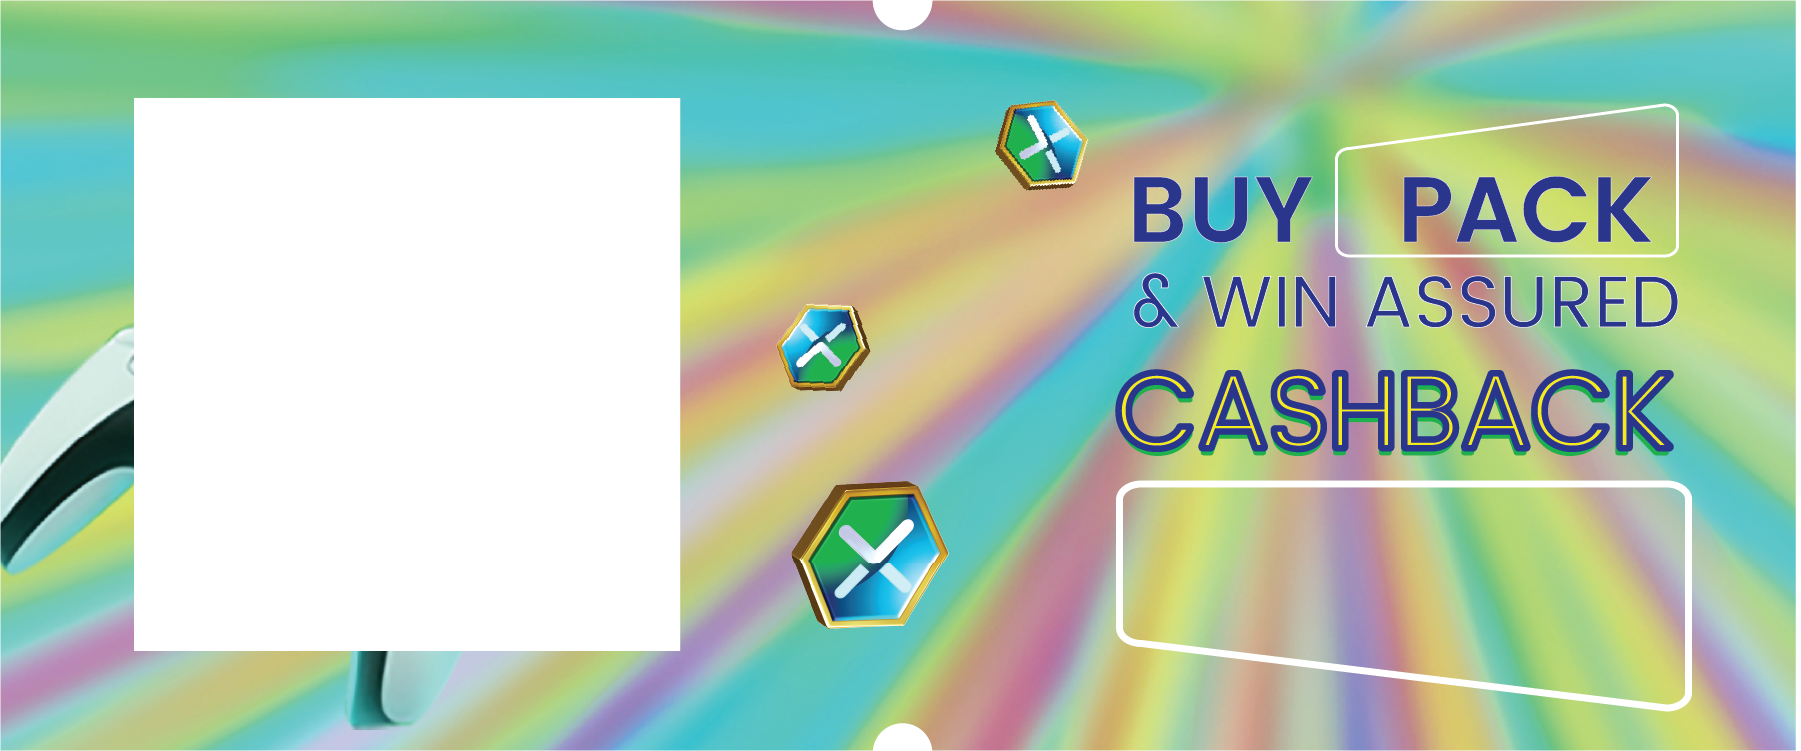
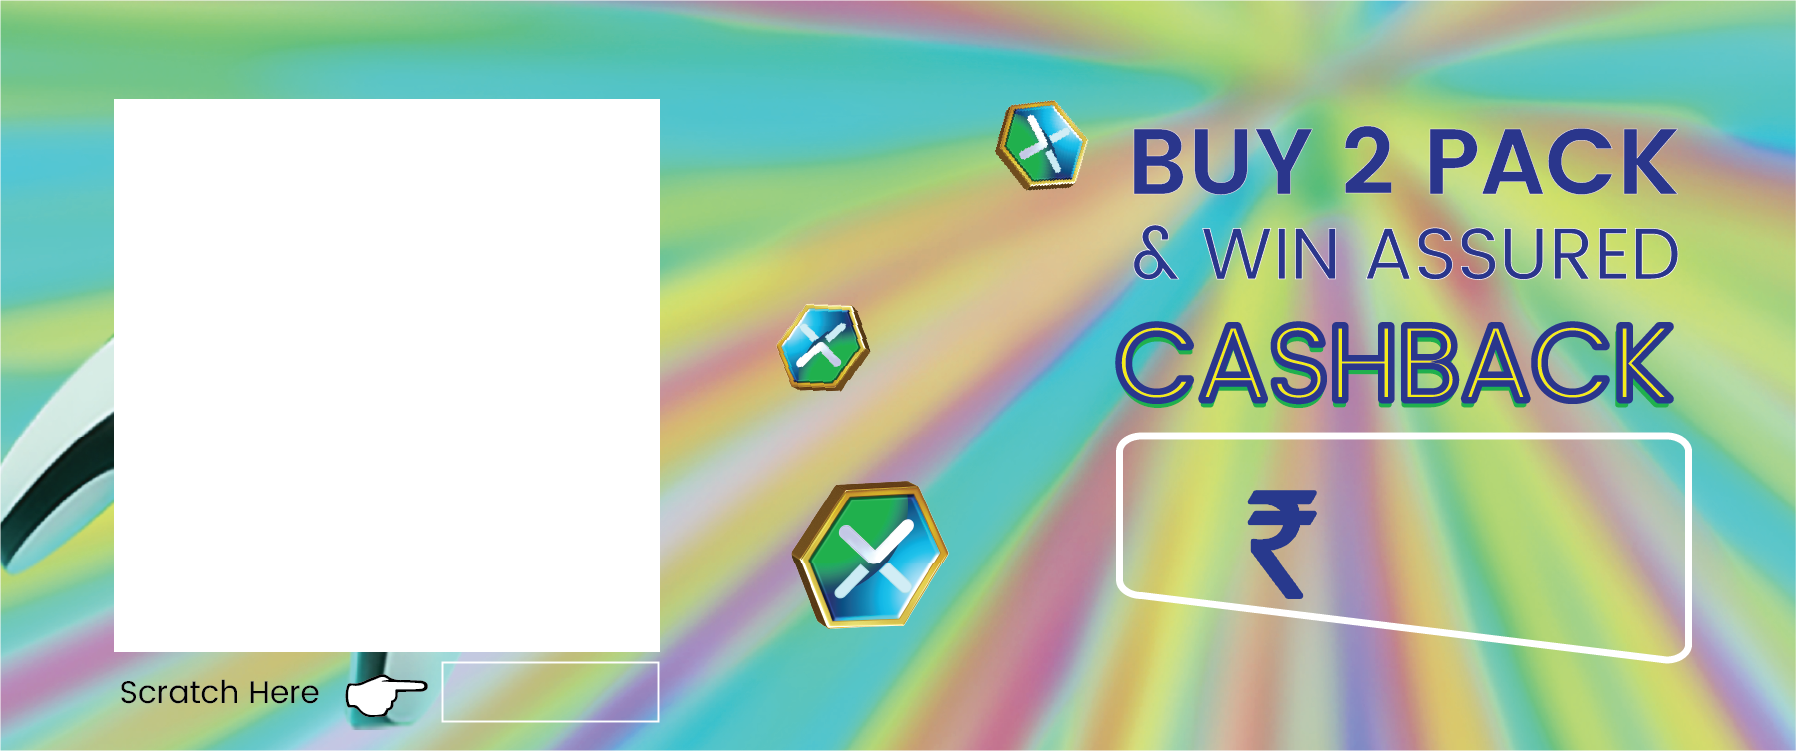
changes in QR code and Reward page

diff --git a/public/css/style.css b/public/css/style.css
@@ -17,7 +17,7 @@
 
 .head-title {
     font-family: myFirstFont;
-    color: #f2f2f2;
+    color: #ffff;
     margin-bottom: 0;
 }
 html{
@@ -69,7 +69,7 @@ p {
 }
 
 .cash-text {
-    color: #f2f2f2;
+    color: #2C3689;
 }
 
 .signup-btn {
@@ -192,7 +192,7 @@ p {
 }
 
 .rewardbg {
-    background-image: url("../images/confetti.gif");
+    background-image:  url("../images/confetti.gif"), url("../images/Banner_video.gif");
 }
 
 .error{

diff --git a/app/Imports/QRCodeImport.php b/app/Imports/QRCodeImport.php
@@ -57,20 +57,20 @@ class QRCodeImport implements ToCollection, WithValidation, WithStartRow, WithCh
                 $rewardValue = $row[1];
                 $rewardId = RewardItem::whereValue($row[1])->value('id');
 
-                $uniqueKey = Str::random(5);
+                // $uniqueKey = Str::random(5);
 
-                while (QRCodeItem::where('key', $uniqueKey)->exists()) {
-                    $uniqueKey = Str::random(5);
-                }
+                // while (QRCodeItem::where('key', $uniqueKey)->exists()) {
+                //     $uniqueKey = Str::random(5);
+                // }
 
                 $qrCodeItem = QRCodeItem::updateOrCreate([
                     'serial_number' => $row[0],
                 ],[
-                    'key' => $uniqueKey,
+                    // 'key' => $uniqueKey,
                     'reward_item_id' => $rewardId,
                 ]);
 
-                $noofPack = $this->noofPackByRewardValue($rewardValue);
+                // $noofPack = $this->noofPackByRewardValue($rewardValue);
 
                 // final coupon path
                 $qrCodeRewardAmt = "{$newQRFolder}/{$row[1]}";
@@ -80,7 +80,7 @@ class QRCodeImport implements ToCollection, WithValidation, WithStartRow, WithCh
                 $imagePath = "{$qrCodeRewardAmt}/{$row[0]}.png";
                 if(!Storage::disk('public')->exists($imagePath)){
                     $url = url('/')."/login/?uid={$qrCodeItem->id}";
-                    $couponUniqueURL = url('/')."?k={$qrCodeItem->key}";
+                    // $couponUniqueURL = url('/')."?k={$qrCodeItem->key}";
 
                     $qr_code_file = "qr-code/{$row[0]}.png";
                     $image = QrCode::format('png')
@@ -95,31 +95,31 @@ class QRCodeImport implements ToCollection, WithValidation, WithStartRow, WithCh
 
                     $back = Image::make(public_path('images/coupon_template/back.png'));
 
-                    $back->text($noofPack, 370, 170, function($font) {
-                        $font->file(public_path('fonts/Lato-Bold.ttf'));
-                        $font->size(100);
-                        $font->color('#000');
-                        $font->align('center');
-                        $font->valign('bottom');
-                    });
+                    // $back->text($noofPack, 370, 170, function($font) {
+                    //     $font->file(public_path('fonts/Poppins-Bold.ttf'));
+                    //     $font->size(100);
+                    //     $font->color('#2C3689');
+                    //     $font->align('center');
+                    //     $font->valign('bottom');
+                    // });
 
-                    $back->text($rewardValue, 1600, 640, function($font) {
-                        $font->file(public_path('fonts/Lato-Bold.ttf'));
+                    $back->text($rewardValue, 1610, 600, function($font) {
+                        $font->file(public_path('fonts/Poppins-Bold.ttf'));
                         $font->size(150);
-                        $font->color('#000');
+                        $font->color('#2C3689');
                         $font->align('right');
                         $font->valign('bottom');
                     });
 
-                    $back->text($row[0], 145, 713, function($font) {
-                        $font->file(public_path('fonts/Lato-Bold.ttf'));
+                    $back->text($row[0], 500, 700, function($font) {
+                        $font->file(public_path('fonts/Poppins-Bold.ttf'));
                         $font->size(26);
-                        $font->color('#000');
+                        $font->color('#2C3689');
                         $font->align('left');
                         $font->valign('bottom');
                     });
                     $qrCode = Image::make(storage_path("app/public/{$qr_code_file}"));
-                    $back->insert($qrCode, 'top-left', 128, 100);
+                    $back->insert($qrCode, 'top-left', 110, 100);
 
                     $finalQRCode = storage_path("app/public/{$imagePath}");
                     $imgSave = $back->save($finalQRCode);
@@ -199,20 +199,20 @@ class QRCodeImport implements ToCollection, WithValidation, WithStartRow, WithCh
         return 200;
     }
 
-    public function noofPackByRewardValue($rewardValue){
-        switch ($rewardValue) {
-            case '50':
-                return 1;
-                break;
-            case '100':
-                return 2;
-                break;
-            case '200':
-                return 5;
-                break;
-            default:
-                return 0;
-                break;
-        }
-    }
+    // public function noofPackByRewardValue($rewardValue){
+    //     switch ($rewardValue) {
+    //         case '50':
+    //             return 2;
+    //             break;
+    //         case '100':
+    //             return 2;
+    //             break;
+    //         case '200':
+    //             return 2;
+    //             break;
+    //         default:
+    //             return 0;
+    //             break;
+    //     }
+    // }
 }

diff --git a/app/Exports/PayoutExport.php b/app/Exports/PayoutExport.php
@@ -20,7 +20,6 @@ class PayoutExport implements FromCollection, WithMapping, WithHeadings, WithEve
             'Amount',
             'Username',
             'Mobile number',
-            'WD Code',
             'UPI ID',
             'Serial Number',
             'Notes',
@@ -34,10 +33,10 @@ class PayoutExport implements FromCollection, WithMapping, WithHeadings, WithEve
             $loginHistory->qRCodeItem->rewardItem->value,
             $loginHistory->retailer->name,
             $loginHistory->retailer->mobile_number,
-            $loginHistory->qRCodeItem->wd->code,
+            // $loginHistory->qRCodeItem->wd->code,
             $loginHistory->retailer->upi_id,
             $loginHistory->qRCodeItem->serial_number,
-            "{$loginHistory->qRCodeItem->wd->code}:{$loginHistory->retailer->upi_id}:{$loginHistory->retailer->mobile_number}:{$loginHistory->qRCodeItem->serial_number}:\"{$loginHistory->created_at}\"",
+            "{$loginHistory->retailer->upi_id}:{$loginHistory->retailer->mobile_number}:{$loginHistory->qRCodeItem->serial_number}:\"{$loginHistory->created_at}\"",
             $loginHistory->created_at
         ];
     }
@@ -52,7 +51,7 @@ class PayoutExport implements FromCollection, WithMapping, WithHeadings, WithEve
                 $event->sheet->getDelegate()->getColumnDimension('D')->setAutoSize(true);
                 $event->sheet->getDelegate()->getColumnDimension('E')->setAutoSize(true);
                 $event->sheet->getDelegate()->getColumnDimension('F')->setAutoSize(true);
-                $event->sheet->getDelegate()->getColumnDimension('G')->setAutoSize(true);
+                // $event->sheet->getDelegate()->getColumnDimension('G')->setAutoSize(true);
 
             },
         ];
@@ -60,7 +59,7 @@ class PayoutExport implements FromCollection, WithMapping, WithHeadings, WithEve
 
     public function styles(Worksheet $sheet)
     {
-        $sheet->getStyle('A1:G1')->getFont()->setBold(true);
+        $sheet->getStyle('A1:F1')->getFont()->setBold(true);
     }
 
     /**
@@ -68,7 +67,7 @@ class PayoutExport implements FromCollection, WithMapping, WithHeadings, WithEve
     */
     public function collection()
     {
-        return LoginHistory::with(['retailer:id,name,mobile_number,upi_id,whatsapp_number','qRCodeItem:id,serial_number,reward_item_id,wd_id','qRCodeItem.wd:id,code','qRCodeItem.rewardItem:id,value'])
+        return LoginHistory::with(['retailer:id,name,mobile_number,upi_id,whatsapp_number','qRCodeItem:id,serial_number,reward_item_id','qRCodeItem.rewardItem:id,value'])
                     ->whereBetween('created_at',[$this->startDate, $this->endDate])
                     ->select('id','retailer_id','q_r_code_item_id','created_at')
                     ->orderBy('created_at','ASC')

diff --git a/app/Exports/LoginHistoryExport.php b/app/Exports/LoginHistoryExport.php
@@ -21,7 +21,6 @@ class LoginHistoryExport implements FromCollection, WithMapping, WithHeadings, W
             'Mobile number',
             'Whatsapp number',
             'UPI ID',
-            'WD Code',
             'Serial Number',
             'Reward Value',
             'IP Address',
@@ -36,7 +35,7 @@ class LoginHistoryExport implements FromCollection, WithMapping, WithHeadings, W
             $loginHistory->retailer->mobile_number,
             $loginHistory->retailer->whatsapp_number,
             $loginHistory->retailer->upi_id,
-            $loginHistory->qRCodeItem->wd->code,
+            // $loginHistory->qRCodeItem->wd->code,
             $loginHistory->qRCodeItem->serial_number,
             $loginHistory->qRCodeItem->rewardItem->value,
             $loginHistory->ip_address,
@@ -56,7 +55,7 @@ class LoginHistoryExport implements FromCollection, WithMapping, WithHeadings, W
                 $event->sheet->getDelegate()->getColumnDimension('F')->setAutoSize(true);
                 $event->sheet->getDelegate()->getColumnDimension('G')->setAutoSize(true);
                 $event->sheet->getDelegate()->getColumnDimension('H')->setAutoSize(true);
-                $event->sheet->getDelegate()->getColumnDimension('I')->setAutoSize(true);
+                // $event->sheet->getDelegate()->getColumnDimension('I')->setAutoSize(true);
 
             },
         ];
@@ -64,7 +63,7 @@ class LoginHistoryExport implements FromCollection, WithMapping, WithHeadings, W
 
     public function styles(Worksheet $sheet)
     {
-        $sheet->getStyle('A1:I1')->getFont()->setBold(true);
+        $sheet->getStyle('A1:H1')->getFont()->setBold(true);
     }
 
     /**
@@ -75,9 +74,9 @@ class LoginHistoryExport implements FromCollection, WithMapping, WithHeadings, W
         return  LoginHistory::query()
                             ->with([
                                 'retailer:id,name,mobile_number,whatsapp_number,upi_id',
-                                'qRCodeItem:id,serial_number,reward_item_id,wd_id',
-                                'qRCodeItem.rewardItem:id,value',
-                                'qRCodeItem.wd:id,code'
+                                'qRCodeItem:id,serial_number,reward_item_id',
+                                'qRCodeItem.rewardItem:id,value'
+                                // 'qRCodeItem.wd:id,code'
                             ])
                             ->select('id','ip_address','retailer_id','q_r_code_item_id','created_at')
                             ->get();

diff --git a/app/Http/Controllers/Admin/QRCodeItemController.php b/app/Http/Controllers/Admin/QRCodeItemController.php
@@ -124,7 +124,7 @@ class QRCodeItemController extends Controller
         // dd($request->validated(), $id);
         $data = [
             "serial_number" => $request->validated('serial_number'),
-            "key" => $request->validated('key'),
+            // "key" => $request->validated('key'),
         ];
         $qrCodeUpdate = QRCodeItem::whereId($id)->first();
         $update = $qrCodeUpdate->update($data);
@@ -166,29 +166,30 @@ class QRCodeItemController extends Controller
     }
 
 
-    public function updateKey(Request $request)
-    {
-        $key = $request->key;
-        $serial_number = $request->serial_number;
-        $qrcodeData = QRCodeItem::whereSerialNumber($serial_number)->first();
-        if(!$qrcodeData){
-            return back()->with('failed','Invalid Serial Number.');
-        }
+    // public function updateKey(Request $request)
+    // {
+    //     $key = $request->key;
+    //     $serial_number = $request->serial_number;
+    //     $qrcodeData = QRCodeItem::whereSerialNumber($serial_number)->first();
+    //     if(!$qrcodeData){
+    //         return back()->with('failed','Invalid Serial Number.');
+    //     }
 
-        $qrcodeData->update([
-            'key' => $key,
-        ]);
-        preg_match('/(\d+)$/', $serial_number, $matches);
-        $number = (int)$matches[1];
+    //     $qrcodeData->update([
+    //         'key' => $key,
+    //     ]);
+    //     preg_match('/(\d+)$/', $serial_number, $matches);
+    //     $number = (int)$matches[1];
 
-        // Increment the number and update the value
-        $newKey = preg_replace_callback('/\d+$/', function($matches) {
-            return ++$matches[0];
-        }, $serial_number);
-        // dd($serial_number, $newKey);
-        session(['sr_no' => $newKey]);
-        // dd($qrcodeData);
-        return redirect()->route('login',['uid' => $qrcodeData->id]);
-        // return back()->with('success','Update successfully.');
-    }
+    //     // Increment the number and update the value
+    //     $newKey = preg_replace_callback('/\d+$/', function($matches) {
+    //         return ++$matches[0];
+    //     }, $serial_number);
+    //     // dd($serial_number, $newKey);
+    //     session(['sr_no' => $newKey]);
+    //     // dd($qrcodeData);
+    //     return redirect()->route('login',['uid' => $qrcodeData->id]);
+    //     // return back()->with('success','Update successfully.');
+    // }
+    
 }

diff --git a/app/Http/Controllers/CouponCodeController.php b/app/Http/Controllers/CouponCodeController.php
@@ -15,20 +15,18 @@ class CouponCodeController extends Controller
     public function store(StoreCCRetailerRequest $request)
     {
         // $retailer = Retailer::firstOrCreate($request->validated());
-        $data = [
-            'mobile_number' => $request->validated('mobile_number'),
+        $retailer = Retailer::updateOrCreate([
+            'mobile_number' => $request->validated('mobile_number')
+        ],[
+            'name' => $request->validated('name'),
+            'whatsapp_number' => $request->validated('whatsapp_number'),
             'upi_id' => $request->validated('upi_id'),
-        ];
-        $retailer = Retailer::where($data)->first();
+        ]);
         if(!$retailer){
-            $retailer = Retailer::create($request->validated());
-
-            if(!$retailer){
-                return back()->with([
-                    'status' => 'failed',
-                    'message' => 'Something went wrong, please try again later',
-                ]);
-            }
+            return back()->with([
+                'status' => 'failed',
+                'message' => 'Something went wrong, please try again later',
+            ]);
         }
 
         $couponCode = CouponCode::create([

diff --git a/app/Imports/BulkQRCodeImport.php b/app/Imports/BulkQRCodeImport.php
@@ -23,11 +23,11 @@ class BulkQRCodeImport implements ToCollection, WithValidation, WithStartRow
         foreach ($rows as $row)
         {
             $qrCode = QRCodeItem::whereSerialNumber($row[0])->first();
-            if($qrCode){
-                $qrCode->update([
-                    'key' => $row[1],
-                ]);
-            }
+            // if($qrCode){
+            //     $qrCode->update([
+            //         'key' => $row[1],
+            //     ]);
+            // }
         }
     }
 
@@ -35,14 +35,14 @@ class BulkQRCodeImport implements ToCollection, WithValidation, WithStartRow
     {
         return [
             '*.0' => ['required'],
-            '*.1' => ['required'],
+            // '*.1' => ['required'],
         ];
     }
     public function customValidationAttributes()
     {
         return [
             '0' => 'Serial Number',
-            '1' => 'Key',
+            // '1' => 'Key',
         ];
     }
     public function startRow(): int

diff --git a/app/Models/QRCodeItem.php b/app/Models/QRCodeItem.php
@@ -12,9 +12,9 @@ class QRCodeItem extends Model
 
     protected $fillable = [
         'url',
-        'key',
+        // 'key',
         'path',
-        'wd_id',
+        // 'wd_id',
         'serial_number',
         'reward_item_id',
         'is_redeemed',

diff --git a/app/Http/Requests/UpdateQRCodeItemRequest.php b/app/Http/Requests/UpdateQRCodeItemRequest.php
@@ -25,7 +25,7 @@ class UpdateQRCodeItemRequest extends FormRequest
     {
         return [
             'serial_number' => 'required',
-            'key' => 'required',
+            // 'key' => 'required',
         ];
     }
 }
